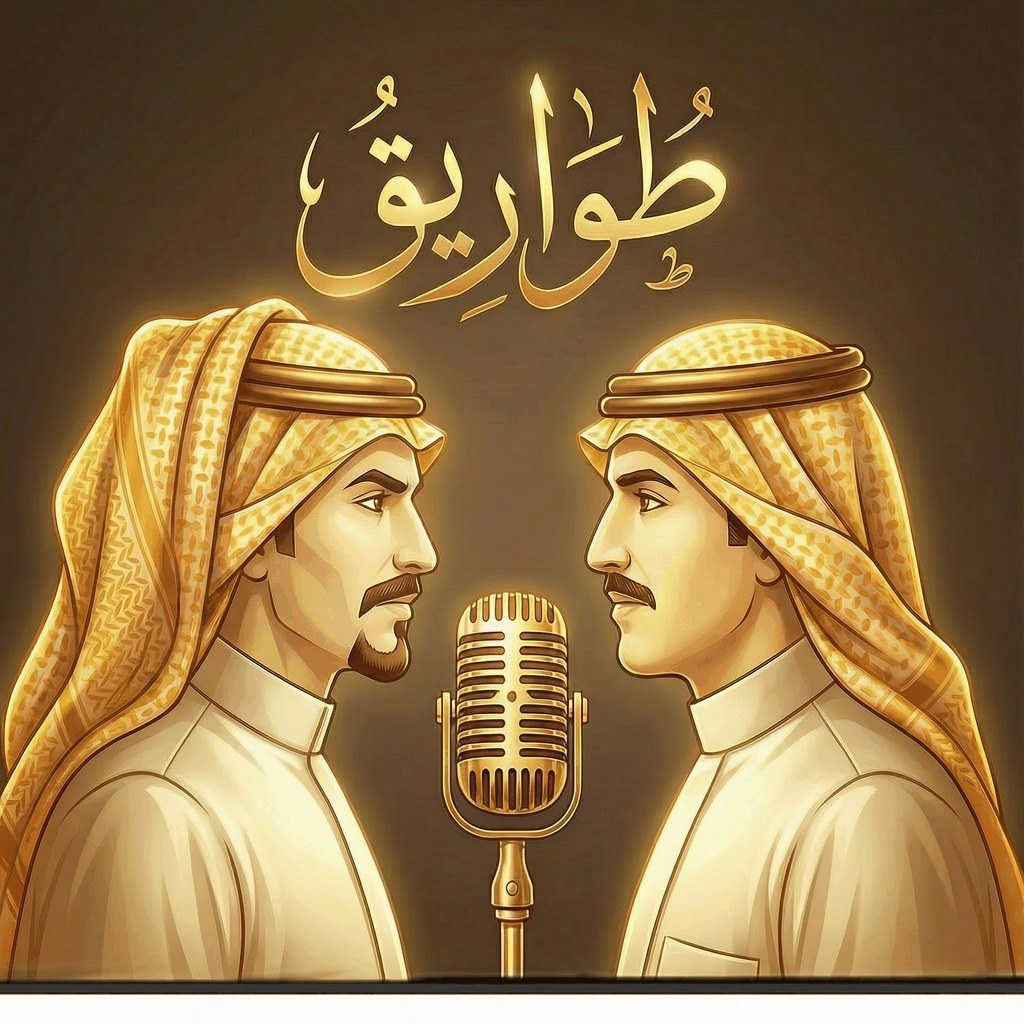
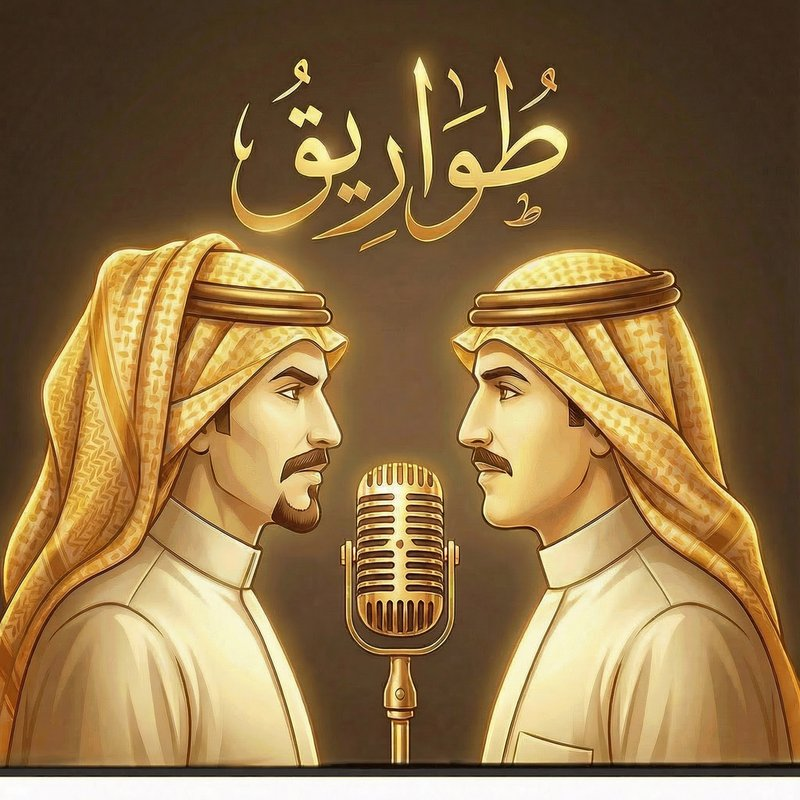
Checkpoint: تعديل "ساحات المحاورة" إلى "طواريق" بخط ذهبي عريض، زيادة حد الأحرف لاسم الساحة والدعوات العامة إلى 25 حرف، وإصلاح موضع كلمة "طواريق" في أيقونة التطبيق

diff --git a/components/create-room-modal.tsx b/components/create-room-modal.tsx
@@ -30,8 +30,8 @@ export function CreateRoomModal({ visible, onClose, onSubmit }: CreateRoomModalP
       return;
     }
 
-    if (trimmedName.length > 100) {
-      Alert.alert("خطأ", "يجب أن لا يزيد اسم الساحة عن 100 حرف");
+    if (trimmedName.length > 25) {
+      Alert.alert("خطأ", "يجب أن لا يزيد اسم الساحة عن 25 حرف");
       return;
     }
 
@@ -74,7 +74,7 @@ export function CreateRoomModal({ visible, onClose, onSubmit }: CreateRoomModalP
               placeholderTextColor={colors.muted}
               value={roomName}
               onChangeText={setRoomName}
-              maxLength={100}
+              maxLength={25}
               autoFocus
               returnKeyType="done"
               onSubmitEditing={handleSubmit}

diff --git a/app/room/[id].tsx b/app/room/[id].tsx
@@ -1918,12 +1918,12 @@ export default function RoomScreen() {
               دعوة عامة
             </Text>
             <Text style={{ fontSize: 13, textAlign: 'center', marginBottom: 16, color: colors.muted }}>
-              أضف رسالة للدعوة (18 حرف كحد أقصى)
+              أضف رسالة للدعوة (25 حرف كحد أقصى)
             </Text>
             <TextInput
               value={publicInviteText}
-              onChangeText={(t) => setPublicInviteText(t.substring(0, 18))}
-              maxLength={18}
+              onChangeText={(t) => setPublicInviteText(t.substring(0, 25))}
+              maxLength={25}
               placeholder="مطلوب شاعر"
               placeholderTextColor="#999"
               style={{

diff --git a/app/welcome.tsx b/app/welcome.tsx
@@ -296,8 +296,8 @@ export default function WelcomeScreen() {
           <View className="flex-1 justify-center items-center px-6 py-8">
             {/* Logo/Title */}
             <View className="items-center mb-8">
-              <Text className="text-4xl font-bold text-foreground mb-3">
-                ساحات المحاورة
+              <Text style={{ fontSize: 48, fontWeight: '900', color: '#c8860a', marginBottom: 12, fontFamily: 'System', letterSpacing: 2 }}>
+                طواريق
               </Text>
               <Text className="text-base text-muted text-center">
                 منصة تفاعلية للمحاورة الشعرية

diff --git a/todo.md b/todo.md
@@ -2621,3 +2621,10 @@
 - [x] تحديث Git remote ورفع التحديثات إلى GitHub
 - [x] حذف "type": "module" من package.json لإصلاح مشكلة Metro
 - [x] تحديث package.json و railway.json لاستخدام .mjs بدلاً من .js
+- [ ] تعديل كلمة "ساحات المحاورة" في واجهة تسجيل الدخول
+- [ ] زيادة حد الأحرف لاسم الساحة من 18 إلى 25 حرف
+- [ ] زيادة حد الأحرف للدعوات العامة من 18 إلى 25 حرف
+- [x] تعديل "ساحات المحاورة" إلى "طواريق" في واجهة تسجيل الدخول بخط جميل ولون نحاسي/ذهبي
+- [x] زيادة حد الأحرف لاسم الساحة إلى 25 حرف
+- [x] زيادة حد الأحرف للدعوات العامة إلى 25 حرف
+- [x] إصلاح موضع كلمة "طواريق" في أيقونة التطبيق (تنزيلها أكثر)
